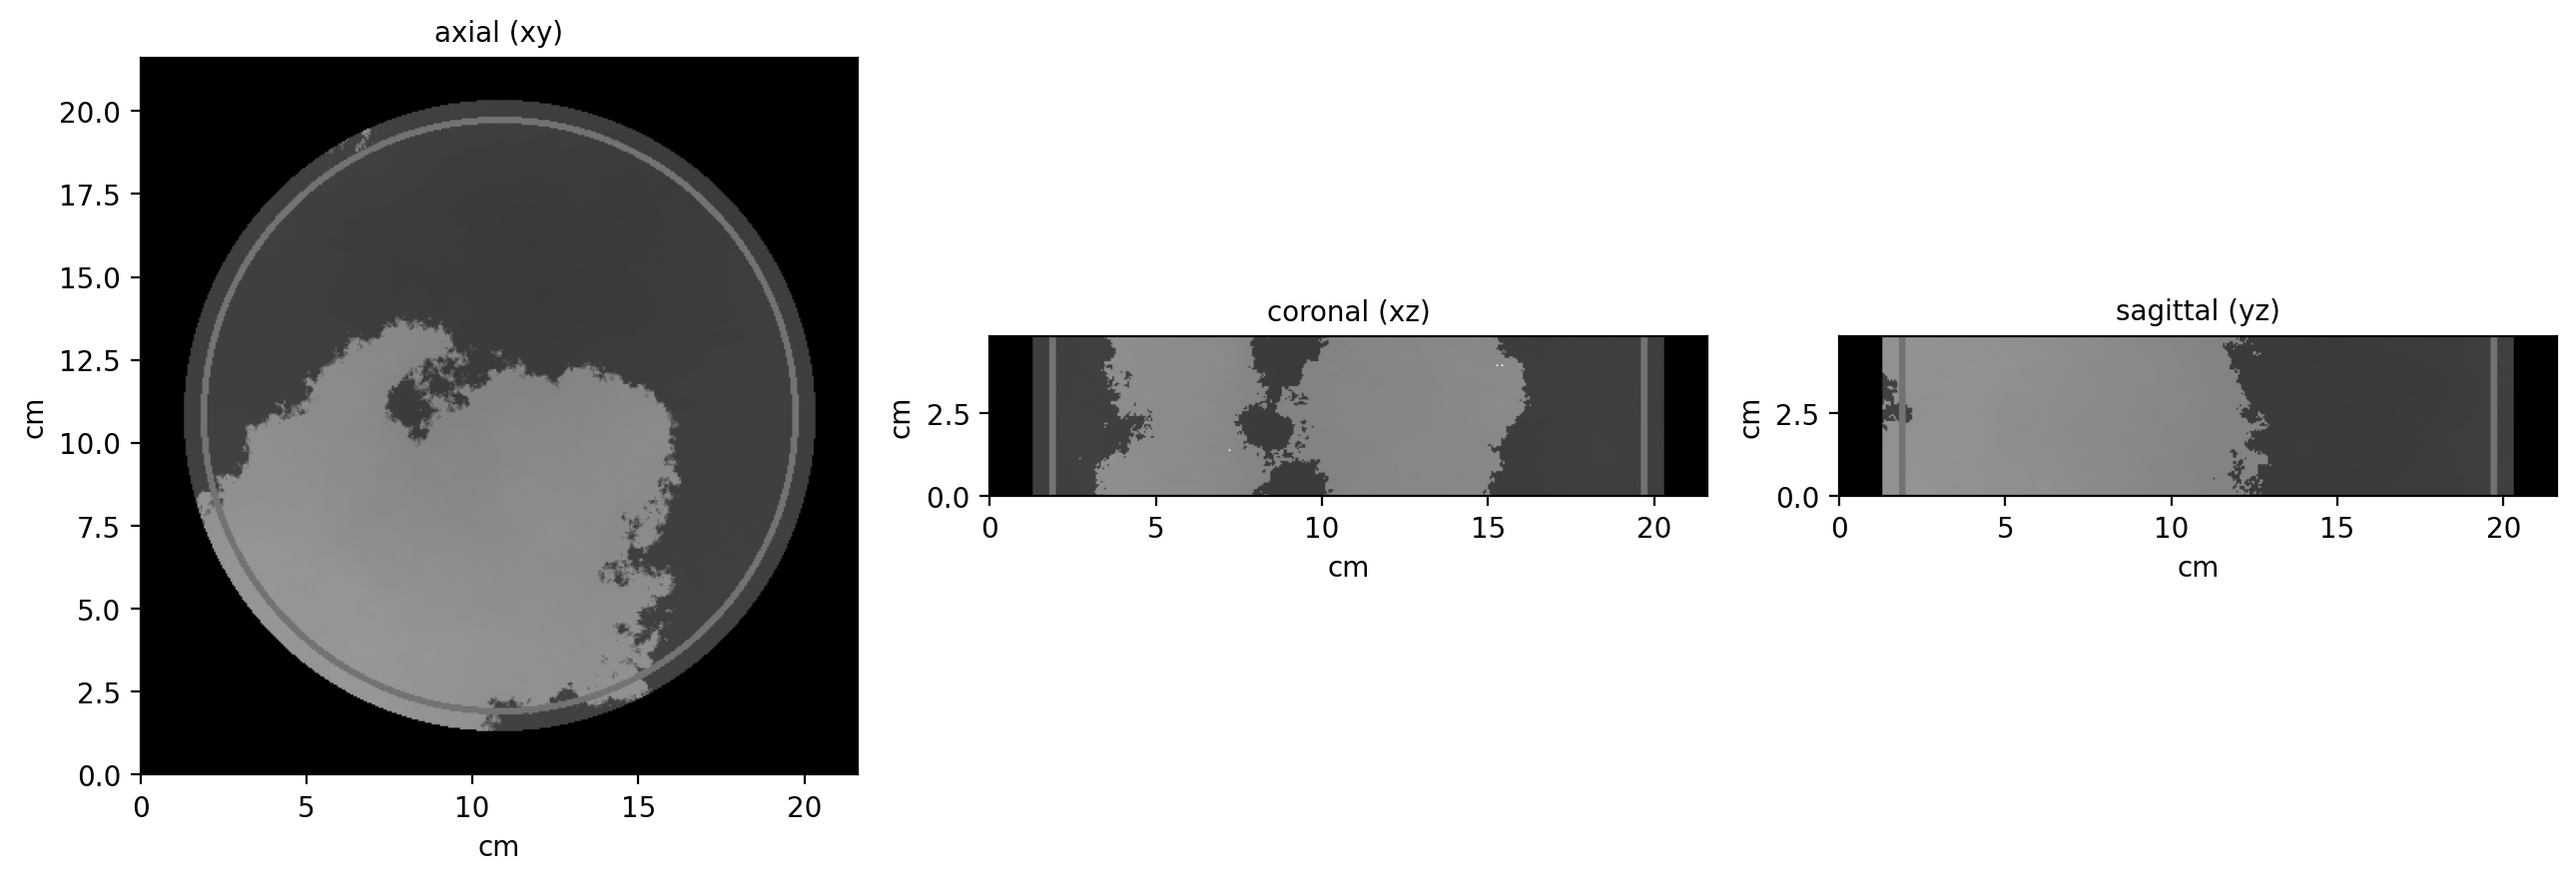
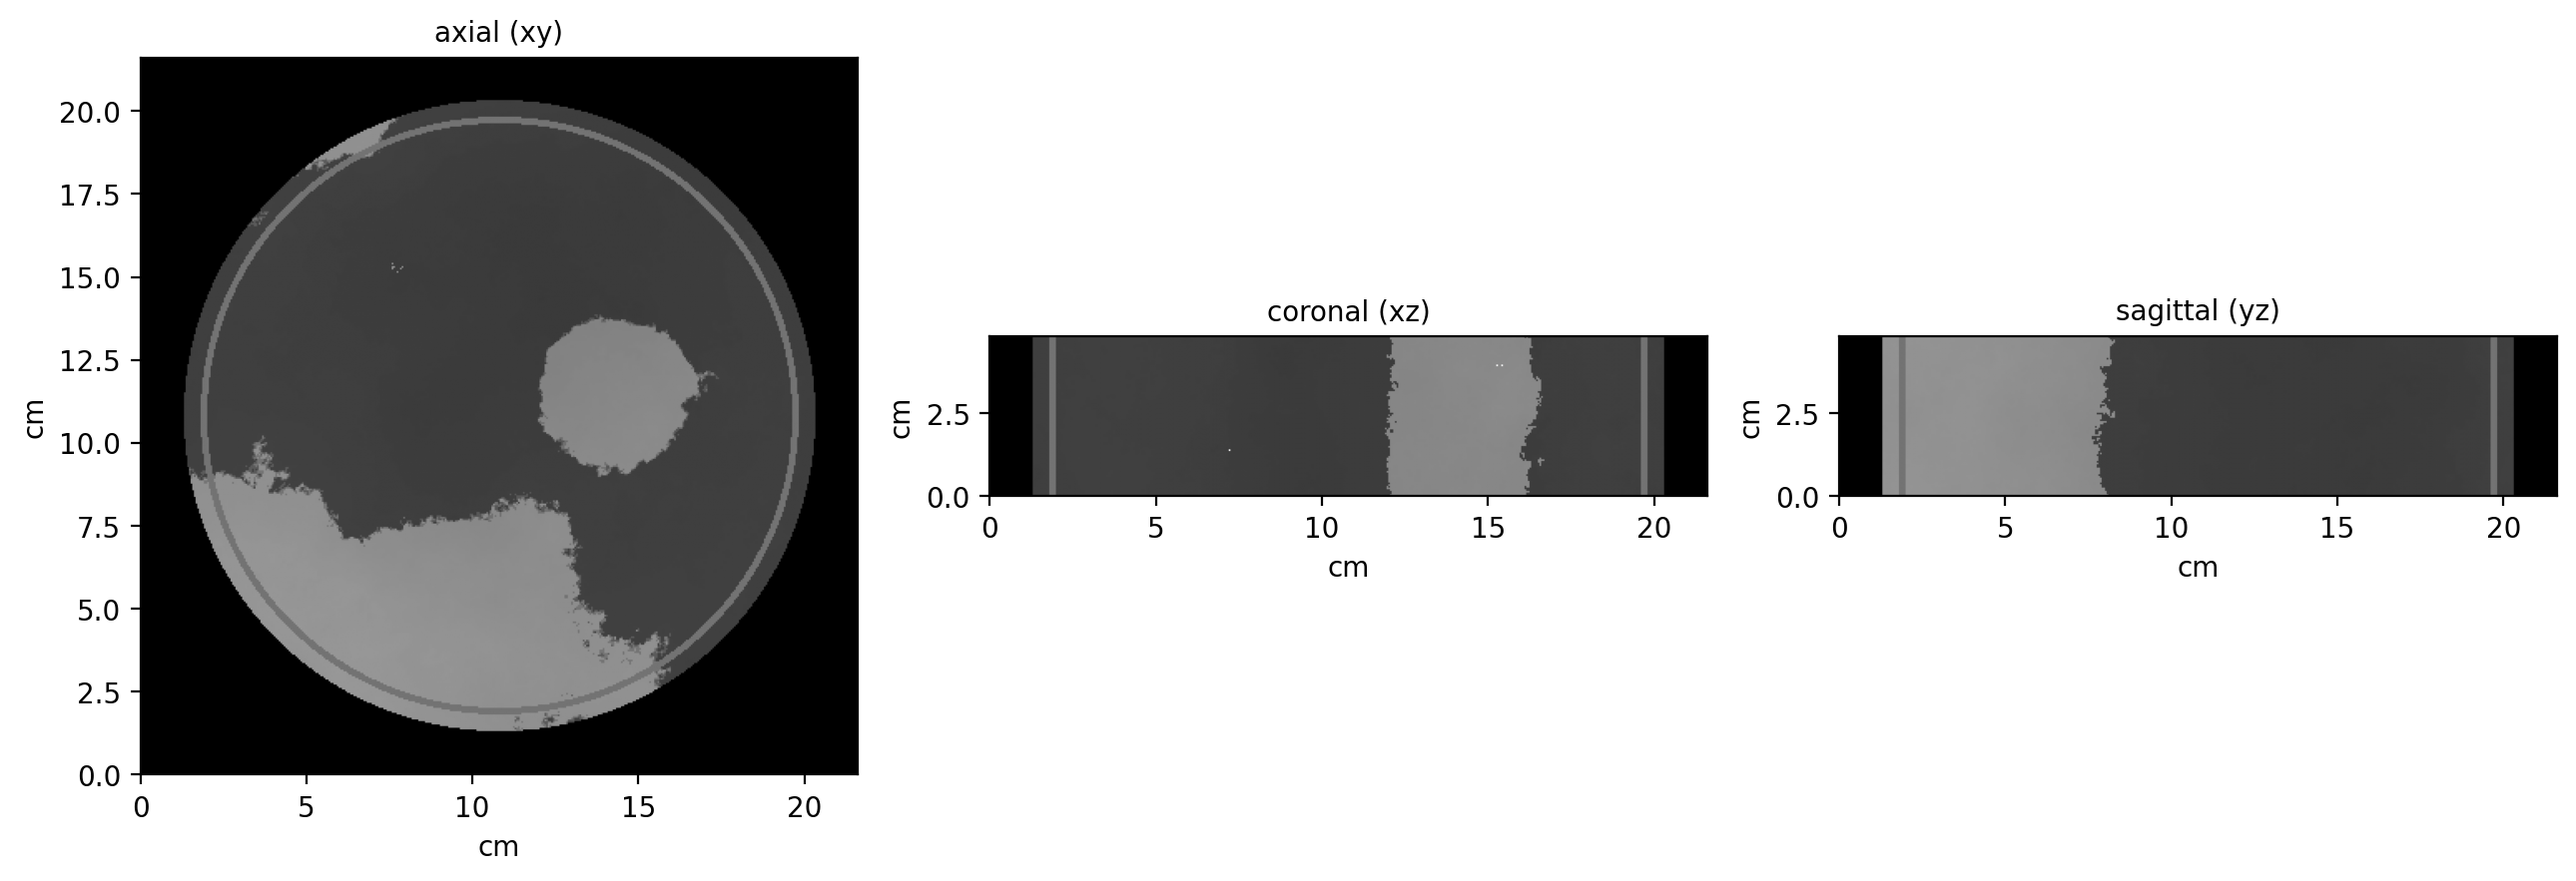
multiple islands

diff --git a/scripts/_run_synthetic_phantoms.py b/scripts/_run_synthetic_phantoms.py
@@ -145,8 +145,10 @@ def _powerlaw_field(shape, alpha, rng):
 def build_powerlaw_phantom(shape, dx_cm, rng,
                             alpha_main=2.5, alpha_hf=1.8,
                             hf_weight=0.18,
-                            center_bias_strength=2.6,
-                            center_sigma_cm=5.0,
+                            n_islands=3,
+                            island_sigma_cm=1.8,
+                            island_strength=2.8,
+                            island_max_offset_cm=5.5,
                             glandular_fraction=0.38,
                             intra_tissue_variation=0.10,
                             n_calc_clusters=40,
@@ -173,15 +175,28 @@ def build_powerlaw_phantom(shape, dx_cm, rng,
     field_hf   = _powerlaw_field(shape, alpha_hf, rng)
     field = (1.0 - hf_weight) * field_main + hf_weight * field_hf
 
-    # Radial Gaussian centre bias (xy only -- z does not bias)
+    # Multi-island Gaussian bias (xy only). N Gaussian bumps at random
+    # offsets inside island_max_offset_cm of the petri centre, so the
+    # threshold gets crossed in several places -> multiple glandular
+    # islands instead of one central blob.
     y = (np.arange(NY) - (NY - 1) / 2) * dx_cm
     x = (np.arange(NX) - (NX - 1) / 2) * dx_cm
     Y, X = np.meshgrid(y, x, indexing="ij")
-    center_bias_xy = np.exp(-(Y * Y + X * X) / (2 * center_sigma_cm ** 2))
-    center_bias = np.broadcast_to(center_bias_xy[np.newaxis, :, :],
+    island_bias_xy = np.zeros_like(Y, dtype=np.float32)
+    for _ in range(n_islands):
+        # Uniform offset within a disc of radius island_max_offset_cm
+        r_off = island_max_offset_cm * np.sqrt(float(rng.uniform()))
+        th    = 2 * np.pi * float(rng.uniform())
+        cy, cx = r_off * np.sin(th), r_off * np.cos(th)
+        island_bias_xy += np.exp(
+            -((Y - cy) ** 2 + (X - cx) ** 2) / (2 * island_sigma_cm ** 2)
+        ).astype(np.float32)
+    # normalize so peak bias ~ island_strength regardless of overlap
+    peak = max(float(island_bias_xy.max()), 1e-12)
+    island_bias_xy = island_bias_xy / peak
+    island_bias = np.broadcast_to(island_bias_xy[np.newaxis, :, :],
                                    shape).astype(np.float32)
-    # Push glandular toward the centre -- centre voxels get a bump
-    biased = field + center_bias_strength * center_bias
+    biased = field + island_strength * island_bias
 
     # Binary glandular mask (single threshold on biased field)
     threshold = float(np.quantile(biased, 1 - glandular_fraction))
